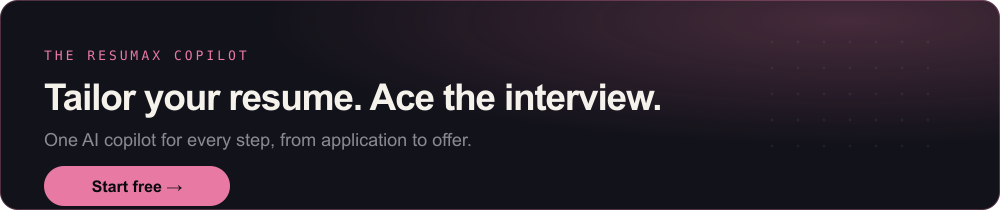
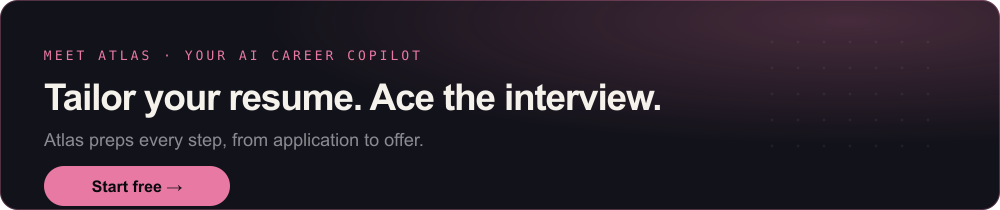
Rewrite copy in ResuMax's own voice (Atlas, ATS-tailoring angle)

Changed region(s): [[0.031, 0.6286, 0.465, 0.7143], [0.031, 0.2286, 0.434, 0.2857]]

diff --git a/README.md b/README.md
@@ -4,36 +4,36 @@
 
 # Tech Internships (2026 & 2027)
 
-Software, data, AI and ML, security, and hardware **internships** for Summer **2026 and 2027**, updated daily. Each one links straight into ResuMax, where the AI copilot tailors your resume to it and preps you to ace the interview.
+Open software, data, AI/ML, security, and hardware **internships** for Summer 2026 and 2027, refreshed daily. Every listing links into [ResuMax](https://resumax.ai/?utm_source=github&utm_medium=repo&utm_campaign=tech-internships&utm_content=intro), where **Atlas**, our AI career copilot, tailors your resume to it and preps you to ace the interview.
 
 [![Stars](https://img.shields.io/github/stars/resumax/tech-internships?style=flat&color=E879A3&labelColor=0A0A0E)](https://github.com/resumax/tech-internships) [![Powered by ResuMax](https://img.shields.io/badge/powered%20by-resumax.ai-E879A3?labelColor=0A0A0E)](https://resumax.ai/?utm_source=github&utm_medium=repo&utm_campaign=tech-internships) ![Updated](https://img.shields.io/badge/updated-automatically-F5F1EB?labelColor=0A0A0E)
 
 <div align="center">
 
-### 😫 Hate rewriting your resume for every single application?
+### A generic resume gets filtered. A tailored one gets the interview.
 
-<a href="https://resumax.ai/?utm_source=github&utm_medium=repo&utm_campaign=tech-internships&utm_content=cta"><img src="./assets/cta.png" width="100%" alt="Tailor your resume and ace the interview with the ResuMax copilot"></a>
+<a href="https://resumax.ai/?utm_source=github&utm_medium=repo&utm_campaign=tech-internships&utm_content=cta"><img src="./assets/cta.png" width="100%" alt="Tailor your resume and ace the interview with Atlas, the ResuMax copilot"></a>
 
-**[Tailor your resume to any role in one click &rarr;](https://resumax.ai/?utm_source=github&utm_medium=repo&utm_campaign=tech-internships&utm_content=cta-link)**
+**[Tailor your resume to any role above &rarr;](https://resumax.ai/?utm_source=github&utm_medium=repo&utm_campaign=tech-internships&utm_content=cta-link)**
 
-ResuMax's AI copilot rewrites your resume to match each job description, then walks you through every interview, the recruiter screen, coding round, and behavioral, so you land the offer, not just the application.
+Atlas rewrites your resume to match each posting, scores it like a recruiter would, then runs you through the coding, system-design, and behavioral rounds so you walk in ready. Land the offer, not just the application.
 
 </div>
 
-🙏 **Spot a role we're missing, or a stale listing?** [Open an issue.](../../issues/new) 🙏
+**Found a role we're missing or a dead link?** [Open an issue](../../issues/new) and we'll fold it in.
 
-## Browse 15 internships by category
+## Open internships by category
 
-💻 &nbsp; **[Software Engineering](#software-engineering)** &nbsp; `6`  
-🤖 &nbsp; **[Data, AI & ML](#data-ai-and-ml)** &nbsp; `6`  
-☁️ &nbsp; **[DevOps, Infra & Cloud](#devops-infra-and-cloud)** &nbsp; `1`  
-🔧 &nbsp; **[Hardware & Embedded](#hardware-and-embedded)** &nbsp; `2`  
+**[Software Engineering](#software-engineering)** &nbsp;·&nbsp; 6 open  
+**[Data, AI & ML](#data-ai-and-ml)** &nbsp;·&nbsp; 6 open  
+**[DevOps, Infra & Cloud](#devops-infra-and-cloud)** &nbsp;·&nbsp; 1 open  
+**[Hardware & Embedded](#hardware-and-embedded)** &nbsp;·&nbsp; 2 open  
 
 ## Legend
 
-🔥 FAANG+ &nbsp;·&nbsp; 🌐 Remote &nbsp;·&nbsp; 🆕 Posted this week
+🌐 Remote &nbsp;·&nbsp; 🆕 Posted this week
 
-## 💻 Software Engineering
+## Software Engineering
 <a name="software-engineering"></a>
 
 | Company | Role | Location | Apply | Tailor | Age |
@@ -45,7 +45,7 @@ ResuMax's AI copilot rewrites your resume to match each job description, then wa
 | **Heron Power** 🆕 | Intern, Electronics Design Engineer, Spring 2027 | Scotts Valley | [Apply](https://jobs.ashbyhq.com/heron-power/796052b0-3811-4282-b1f9-7e6f83c3e87b/application) | <a href="https://resumax.ai/tailor?job=6d2db554-c2bd-40f7-a0ea-89259da9c537&utm_source=github&utm_medium=repo&utm_campaign=new-grad-tech-jobs&utm_content=6d2db554-c2bd-40f7-a0ea-89259da9c537"><img src="./assets/tailor-with-resumax.svg" width="74" alt="Tailor your resume"></a> | 2d |
 | **Heron Power** 🆕 | Intern, Electronics Design Engineer, Autumn 2026 | Scotts Valley | [Apply](https://jobs.ashbyhq.com/heron-power/28af5d2d-bd93-4681-9422-05d17c3437eb/application) | <a href="https://resumax.ai/tailor?job=5c56da1a-3132-47b1-b78e-385dee409f3d&utm_source=github&utm_medium=repo&utm_campaign=new-grad-tech-jobs&utm_content=5c56da1a-3132-47b1-b78e-385dee409f3d"><img src="./assets/tailor-with-resumax.svg" width="74" alt="Tailor your resume"></a> | 2d |
 
-## 🤖 Data, AI & ML
+## Data, AI & ML
 <a name="data-ai-and-ml"></a>
 
 | Company | Role | Location | Apply | Tailor | Age |
@@ -53,18 +53,18 @@ ResuMax's AI copilot rewrites your resume to match each job description, then wa
 | **Continental** 🆕 | Mandatory Internship - Makers Garage / Data Scientist - REF97122K | Hannover, NDS, de | [Apply](https://jobs.smartrecruiters.com/continental/744000134234915) | <a href="https://resumax.ai/tailor?job=a8be7a1b-4ea5-4002-932e-eebc312b25d9&utm_source=github&utm_medium=repo&utm_campaign=new-grad-tech-jobs&utm_content=a8be7a1b-4ea5-4002-932e-eebc312b25d9"><img src="./assets/tailor-with-resumax.svg" width="74" alt="Tailor your resume"></a> | today |
 | **Bosch Group** 🆕 | [Bosch R&D - Internship] Data Engineering Intern | Ho Chi Minh City, vn | [Apply](https://jobs.smartrecruiters.com/boschgroup/744000134169850) | <a href="https://resumax.ai/tailor?job=f1c054ef-0332-4b1a-aaac-165eff6437e0&utm_source=github&utm_medium=repo&utm_campaign=new-grad-tech-jobs&utm_content=f1c054ef-0332-4b1a-aaac-165eff6437e0"><img src="./assets/tailor-with-resumax.svg" width="74" alt="Tailor your resume"></a> | today |
 | **Jobsatphamily** 🆕 | Machine Learning Intern- Immediate Start | New York | [Apply](https://job-boards.greenhouse.io/jobsatphamily/jobs/5281239008) | <a href="https://resumax.ai/tailor?job=33238a3b-02dc-4ad8-b410-1b15c726a53e&utm_source=github&utm_medium=repo&utm_campaign=new-grad-tech-jobs&utm_content=33238a3b-02dc-4ad8-b410-1b15c726a53e"><img src="./assets/tailor-with-resumax.svg" width="74" alt="Tailor your resume"></a> | today |
-| **Imc** 🆕 | Hardware Machine Learning PhD Research Internship | Chicago, United States | [Apply](https://job-boards.eu.greenhouse.io/imc/jobs/4829785101) | <a href="https://resumax.ai/tailor?job=289af2b9-4994-4cec-9740-fe20063ae280&utm_source=github&utm_medium=repo&utm_campaign=new-grad-tech-jobs&utm_content=289af2b9-4994-4cec-9740-fe20063ae280"><img src="./assets/tailor-with-resumax.svg" width="74" alt="Tailor your resume"></a> | today |
-| **Instacart** 🌐 🆕 | Machine Learning Engineer, PhD Intern (Fall) | United States - Remote | [Apply](https://instacart.careers/job/?gh_jid=5917202) | <a href="https://resumax.ai/tailor?job=e08cefd4-7cb3-47e6-b7e6-07935eae946a&utm_source=github&utm_medium=repo&utm_campaign=new-grad-tech-jobs&utm_content=e08cefd4-7cb3-47e6-b7e6-07935eae946a"><img src="./assets/tailor-with-resumax.svg" width="74" alt="Tailor your resume"></a> | today |
-| **Instacart** 🌐 🆕 | Machine Learning PhD Intern, Economics (Fall) | United States - Remote | [Apply](https://instacart.careers/job/?gh_jid=7532267) | <a href="https://resumax.ai/tailor?job=8cc0dc80-746f-4565-b59e-6a35587d9f1c&utm_source=github&utm_medium=repo&utm_campaign=new-grad-tech-jobs&utm_content=8cc0dc80-746f-4565-b59e-6a35587d9f1c"><img src="./assets/tailor-with-resumax.svg" width="74" alt="Tailor your resume"></a> | today |
+| **Imc** 🆕 | Hardware Machine Learning PhD Research Internship | Chicago, United States | [Apply](https://job-boards.eu.greenhouse.io/imc/jobs/4829785101) | <a href="https://resumax.ai/tailor?job=289af2b9-4994-4cec-9740-fe20063ae280&utm_source=github&utm_medium=repo&utm_campaign=new-grad-tech-jobs&utm_content=289af2b9-4994-4cec-9740-fe20063ae280"><img src="./assets/tailor-with-resumax.svg" width="74" alt="Tailor your resume"></a> | 1d |
+| **Instacart** 🌐 🆕 | Machine Learning Engineer, PhD Intern (Fall) | United States - Remote | [Apply](https://instacart.careers/job/?gh_jid=5917202) | <a href="https://resumax.ai/tailor?job=e08cefd4-7cb3-47e6-b7e6-07935eae946a&utm_source=github&utm_medium=repo&utm_campaign=new-grad-tech-jobs&utm_content=e08cefd4-7cb3-47e6-b7e6-07935eae946a"><img src="./assets/tailor-with-resumax.svg" width="74" alt="Tailor your resume"></a> | 1d |
+| **Instacart** 🌐 🆕 | Machine Learning PhD Intern, Economics (Fall) | United States - Remote | [Apply](https://instacart.careers/job/?gh_jid=7532267) | <a href="https://resumax.ai/tailor?job=8cc0dc80-746f-4565-b59e-6a35587d9f1c&utm_source=github&utm_medium=repo&utm_campaign=new-grad-tech-jobs&utm_content=8cc0dc80-746f-4565-b59e-6a35587d9f1c"><img src="./assets/tailor-with-resumax.svg" width="74" alt="Tailor your resume"></a> | 1d |
 
-## ☁️ DevOps, Infra & Cloud
+## DevOps, Infra & Cloud
 <a name="devops-infra-and-cloud"></a>
 
 | Company | Role | Location | Apply | Tailor | Age |
 |---|---|---|---|:--:|--:|
 | **Continental** 🆕 | Internship – RFID and OT Infrastructure (partially mandatory) - REF97268L | Hannover, NDS, de | [Apply](https://jobs.smartrecruiters.com/continental/744000134236652) | <a href="https://resumax.ai/tailor?job=db28f42c-6be5-4985-86f7-3d89f9f0de23&utm_source=github&utm_medium=repo&utm_campaign=new-grad-tech-jobs&utm_content=db28f42c-6be5-4985-86f7-3d89f9f0de23"><img src="./assets/tailor-with-resumax.svg" width="74" alt="Tailor your resume"></a> | today |
 
-## 🔧 Hardware & Embedded
+## Hardware & Embedded
 <a name="hardware-and-embedded"></a>
 
 | Company | Role | Location | Apply | Tailor | Age |